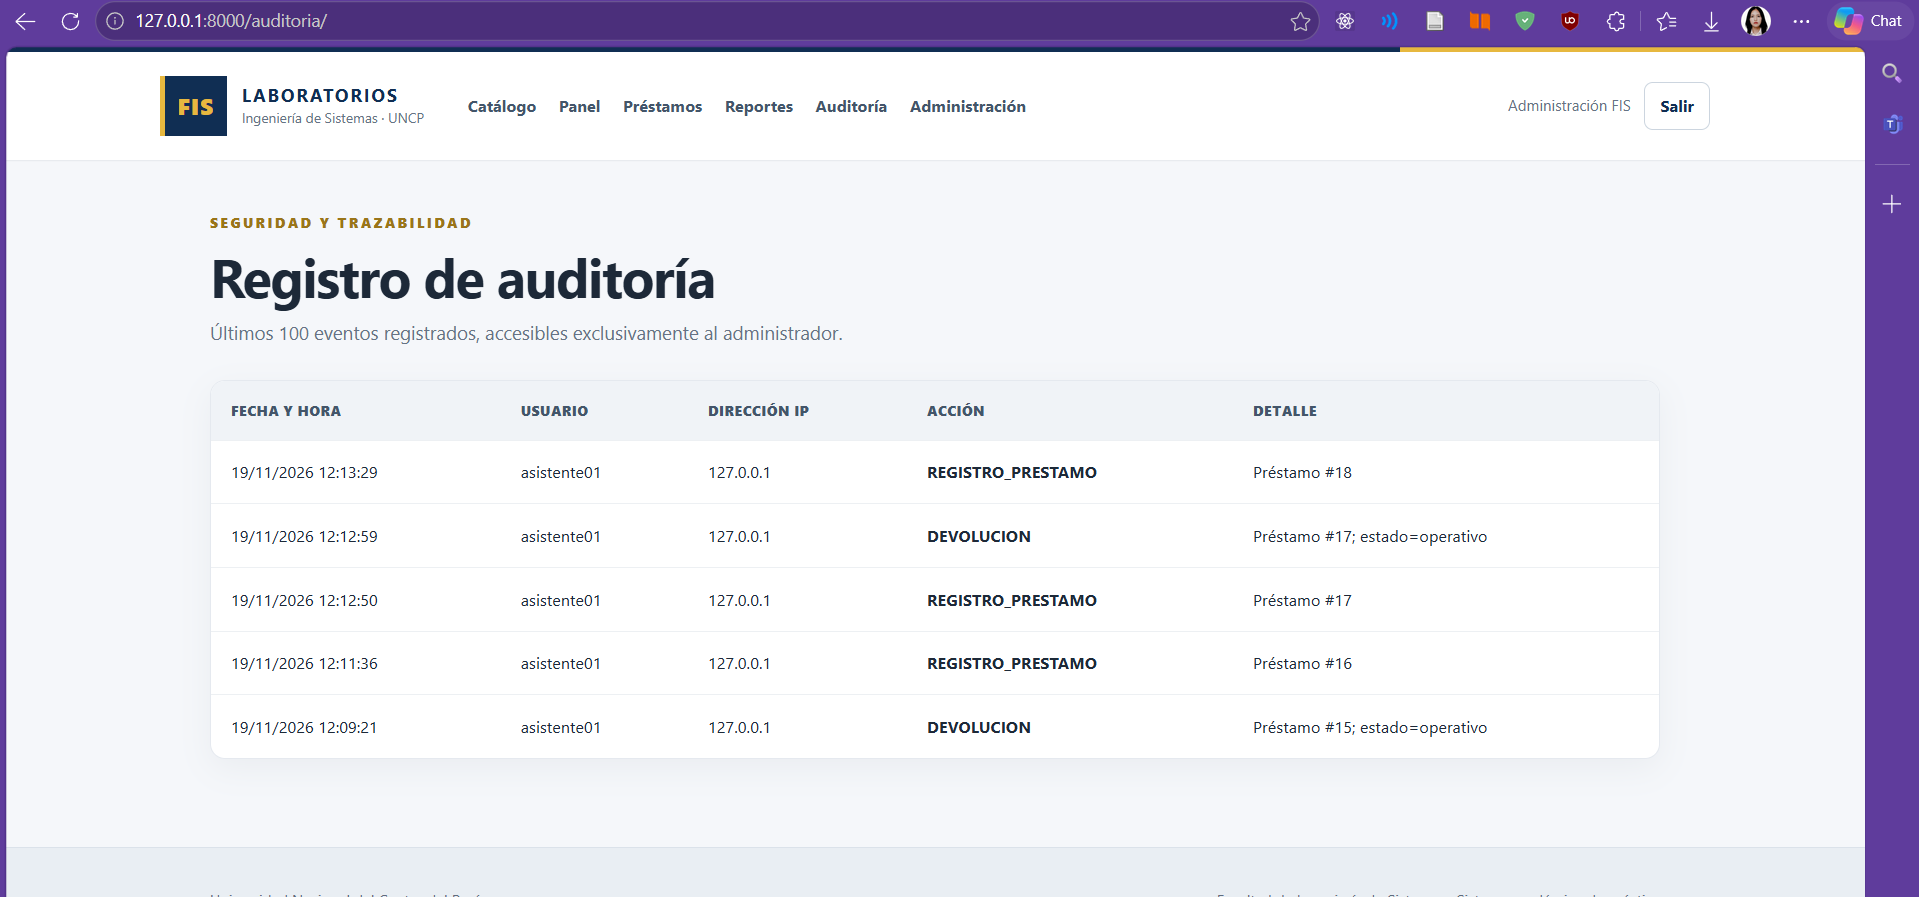
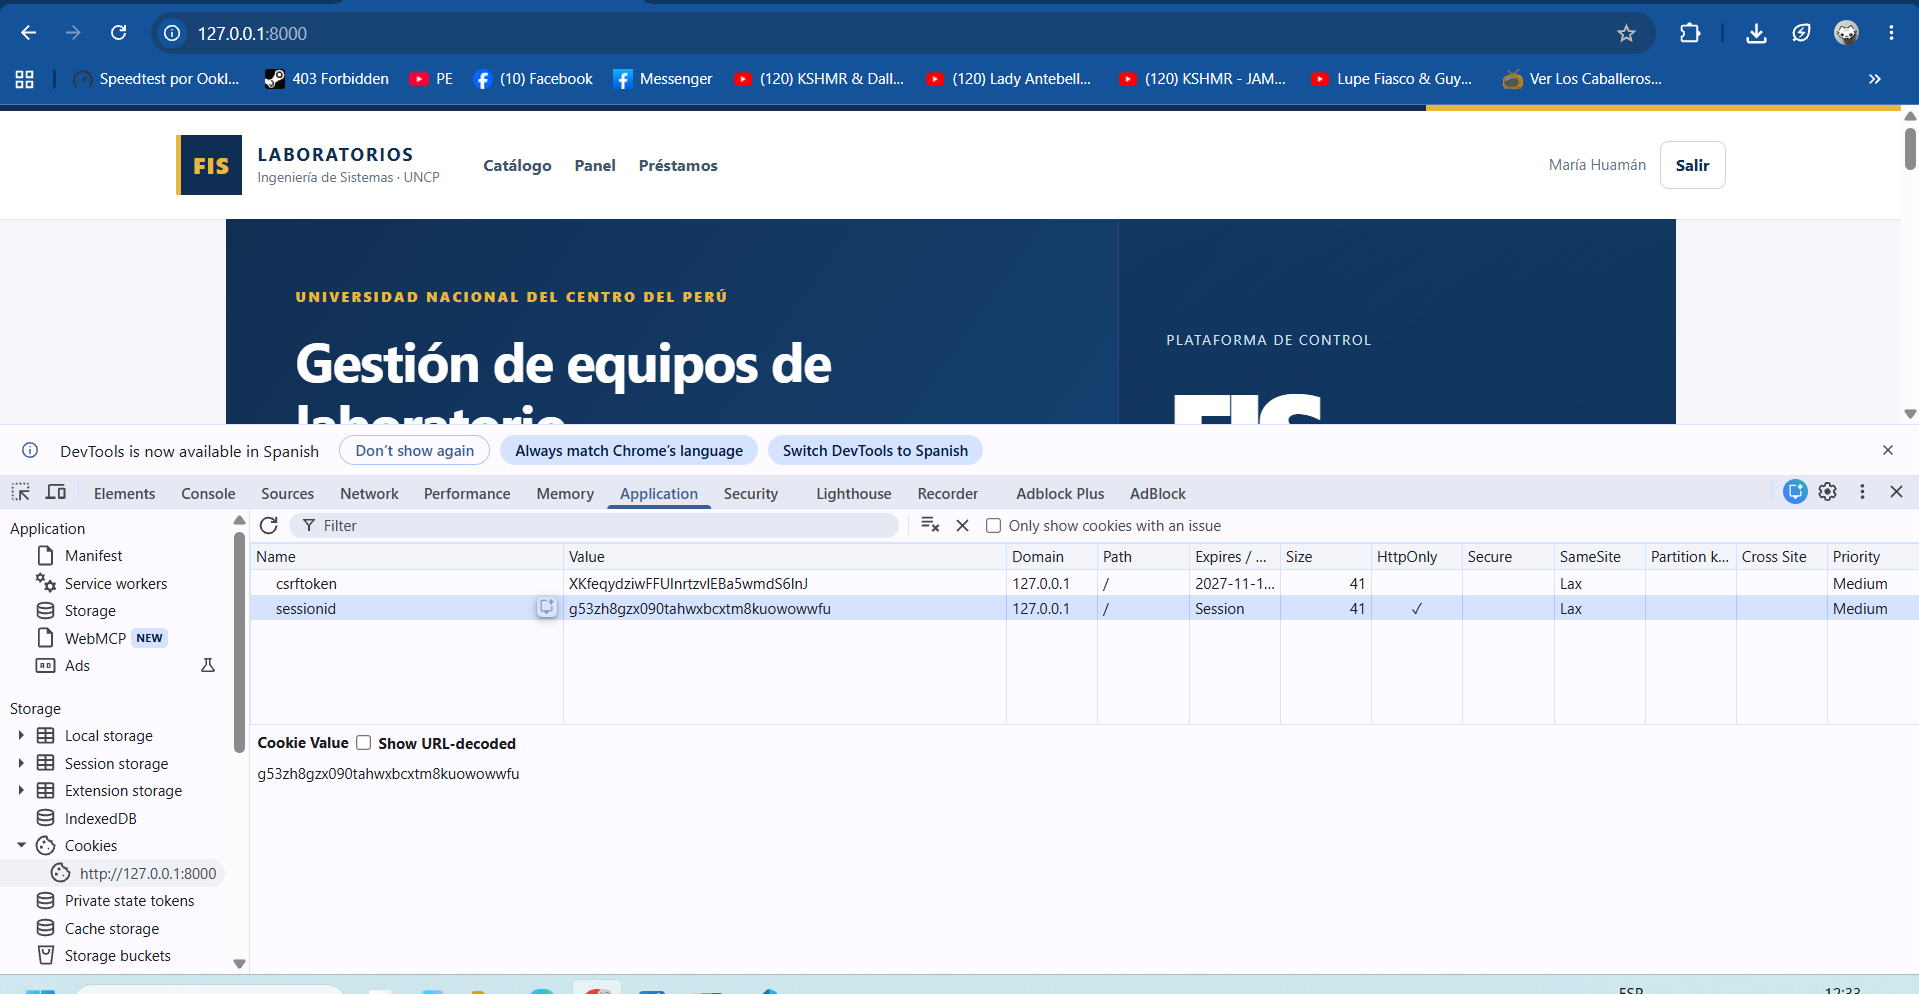
Correccion

diff --git a/README.md b/README.md
@@ -238,8 +238,8 @@ Mensajes de validación por stock insuficiente y ausencia de fecha requerida.
 
 ![8.6.3. STOCK INSUFICIENTE Y FECHA OMITIDA](capturas/Captura21.png)
 
-### 8.6.4. EVIDENCIA COMPLEMENTARIA 1
+### 8.6.4. EVIDENCIA DE COOKIES
 
-Captura adicional del funcionamiento del sistema.
+Captura de COKKIES EN INSPECCIONAR
 
 ![8.6.4. Evidencia complementaria 2](capturas/Captura20.png)
